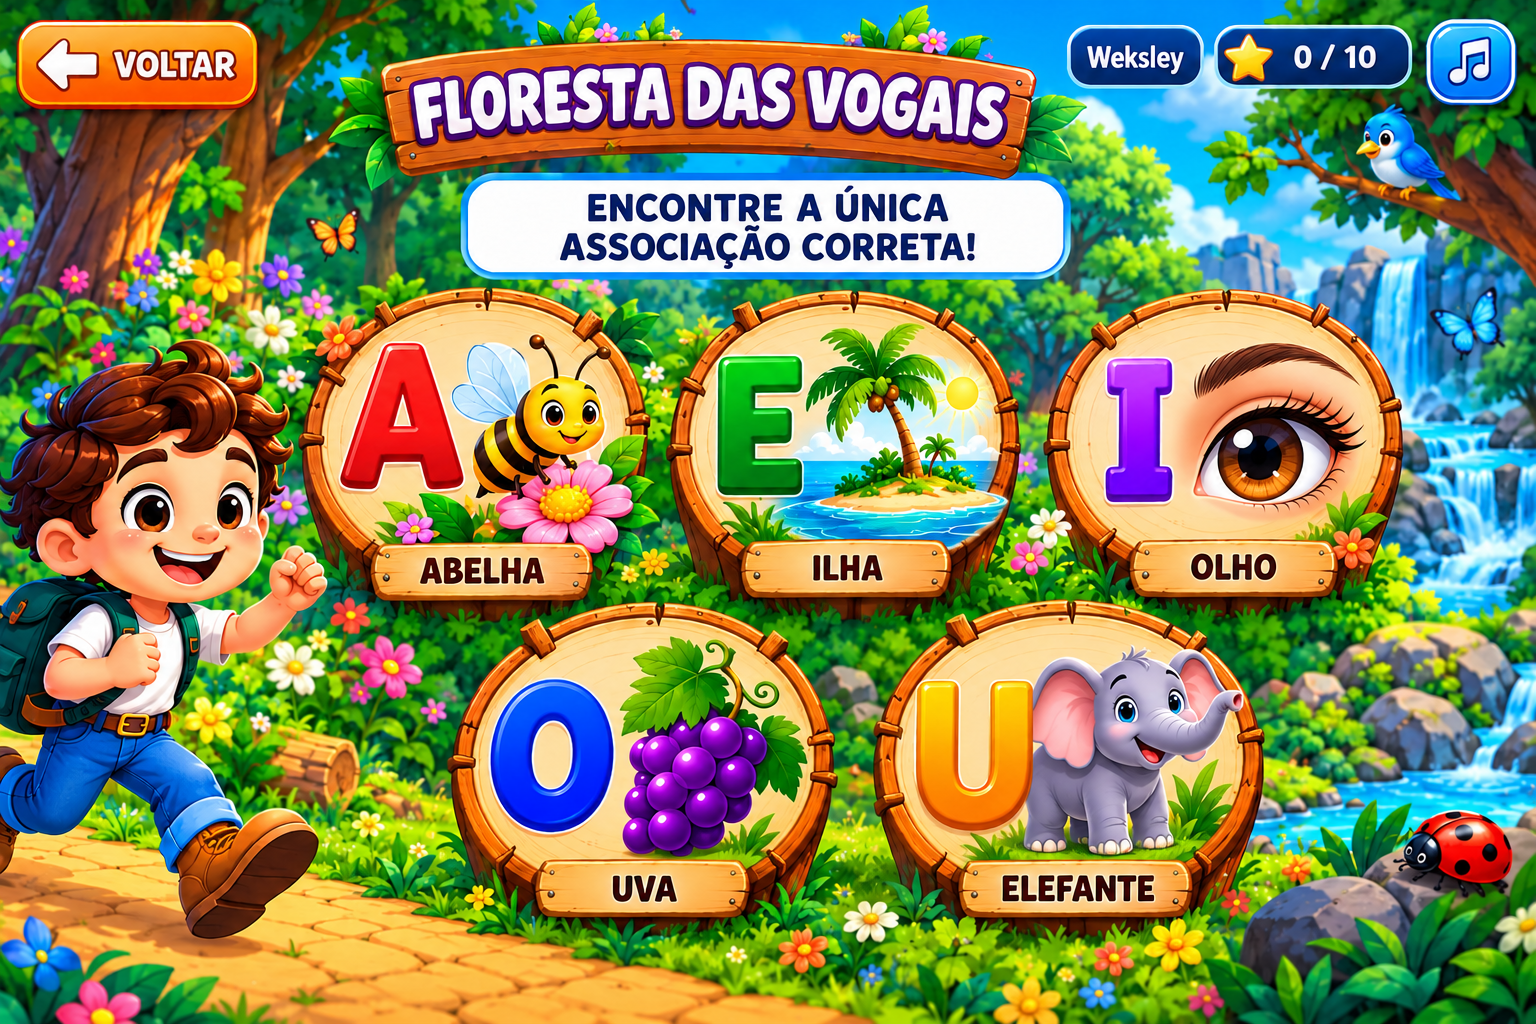
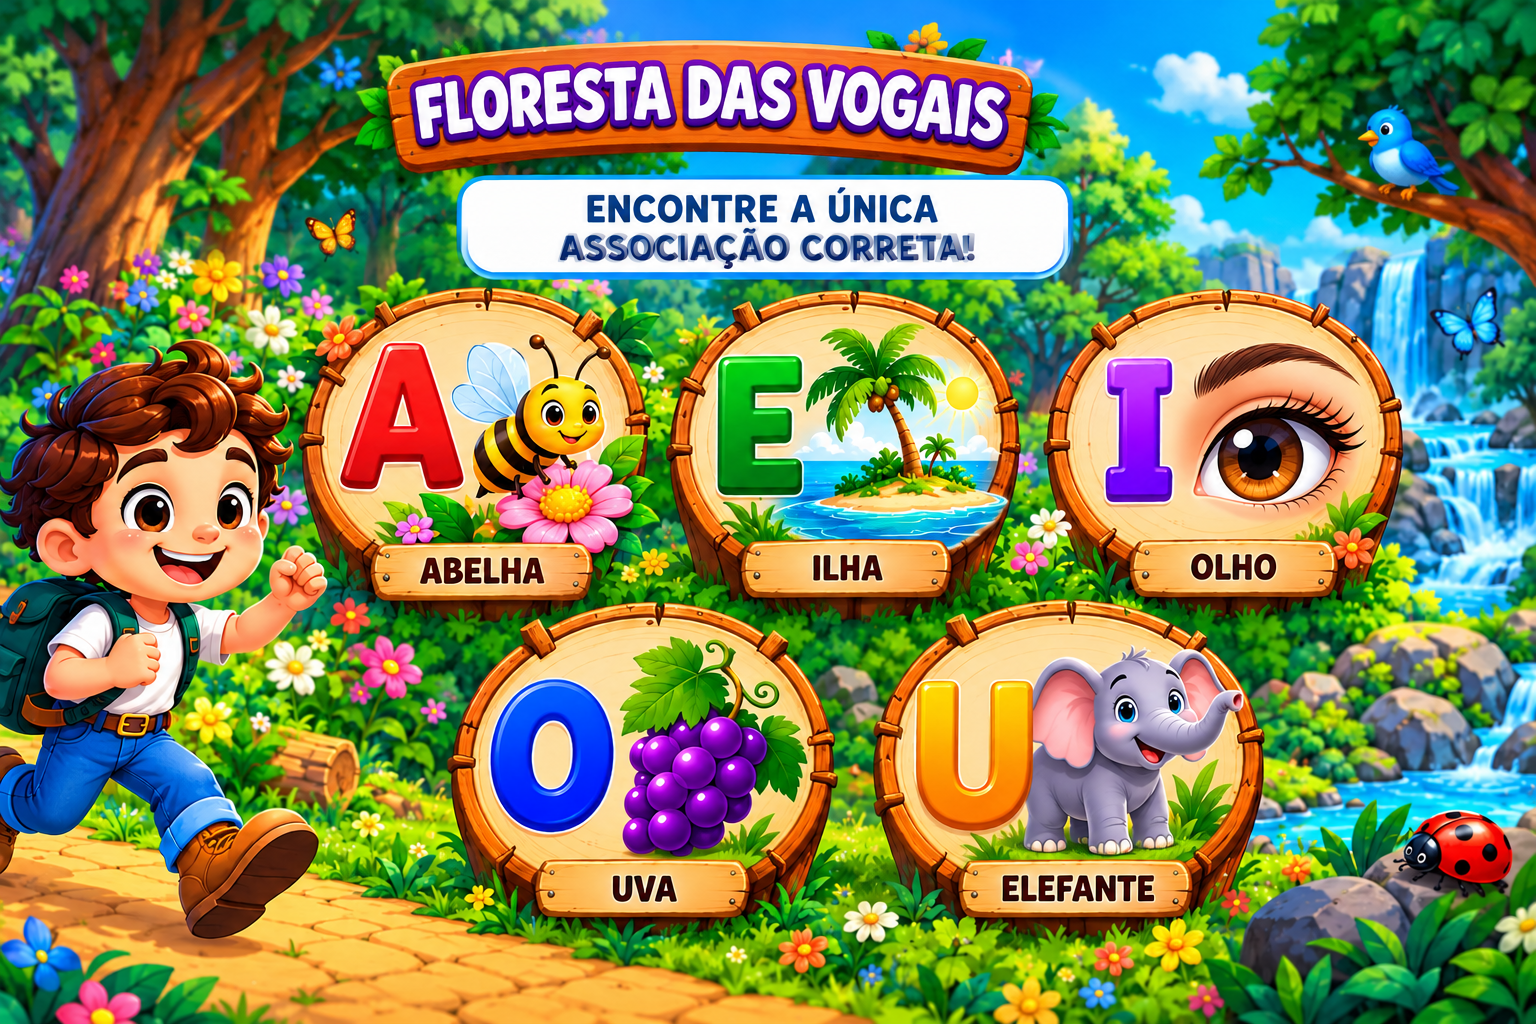
Add files via upload

Changed region(s): [[0.0, 0.0, 1.0, 0.2812]]

diff --git a/index.html b/index.html
@@ -351,6 +351,24 @@ button:focus-visible,input:focus-visible{outline:4px solid #ffe45c;outline-offse
 #stage:not(:has(.vowelHitLayer)) #stageArt{object-fit:contain!important;object-position:center!important;filter:none!important}
 
 </style>
+
+<style id="clean-phase1-ui">
+.phaseBackHit{
+ left:1.2%!important;top:1.6%!important;width:5.7%!important;height:7.7%!important;
+ display:grid!important;place-items:center!important;background:linear-gradient(#ffd83f,#ff9f13)!important;
+ color:white!important;border:.22vw solid white!important;border-radius:1.25vw!important;
+ font-size:clamp(20px,3vw,46px)!important;font-weight:1000!important;box-shadow:0 .18vw .35vw #0004!important;
+}
+.phaseMusicHit{
+ right:1.3%!important;top:1.6%!important;width:5.7%!important;height:7.7%!important;
+ display:grid!important;place-items:center!important;background:linear-gradient(#50c6ff,#168ce2)!important;
+ color:#673ab7!important;border:.22vw solid white!important;border-radius:1.25vw!important;
+ font-size:clamp(18px,2.4vw,38px)!important;font-weight:1000!important;box-shadow:0 .18vw .35vw #0004!important;
+}
+.phaseName{right:14.8%!important;top:1.9%!important;height:6.6%!important}
+.phaseCount{right:7.1%!important;top:1.9%!important;height:6.6%!important}
+</style>
+
 </head>
 <body><div id="shell"><main id="gameframe">
 <div id="toast" class="toast">Muito bem!</div>
@@ -555,8 +573,8 @@ function render(){
      {v:"U",x:56.0,y:59.0,w:22.0,h:35.0}
    ];
    let h=`<div class="vowelHitLayer">
-      <button type="button" class="phaseBackHit" aria-label="Voltar ao mapa" onclick="show('map')"></button>
-      <button type="button" class="phaseMusicHit" aria-label="Música" onclick="toggleMusic()"></button>
+      <button type="button" class="phaseBackHit" aria-label="Voltar ao mapa" onclick="show('map')">←</button>
+      <button type="button" class="phaseMusicHit" aria-label="Música" onclick="toggleMusic()">♫</button>
       <div class="phaseName">${escapeHtml(S.name)}</div>
       <div class="phaseCount">⭐ ${S.q+1}/5</div>`;
    targets.forEach(t=>{
